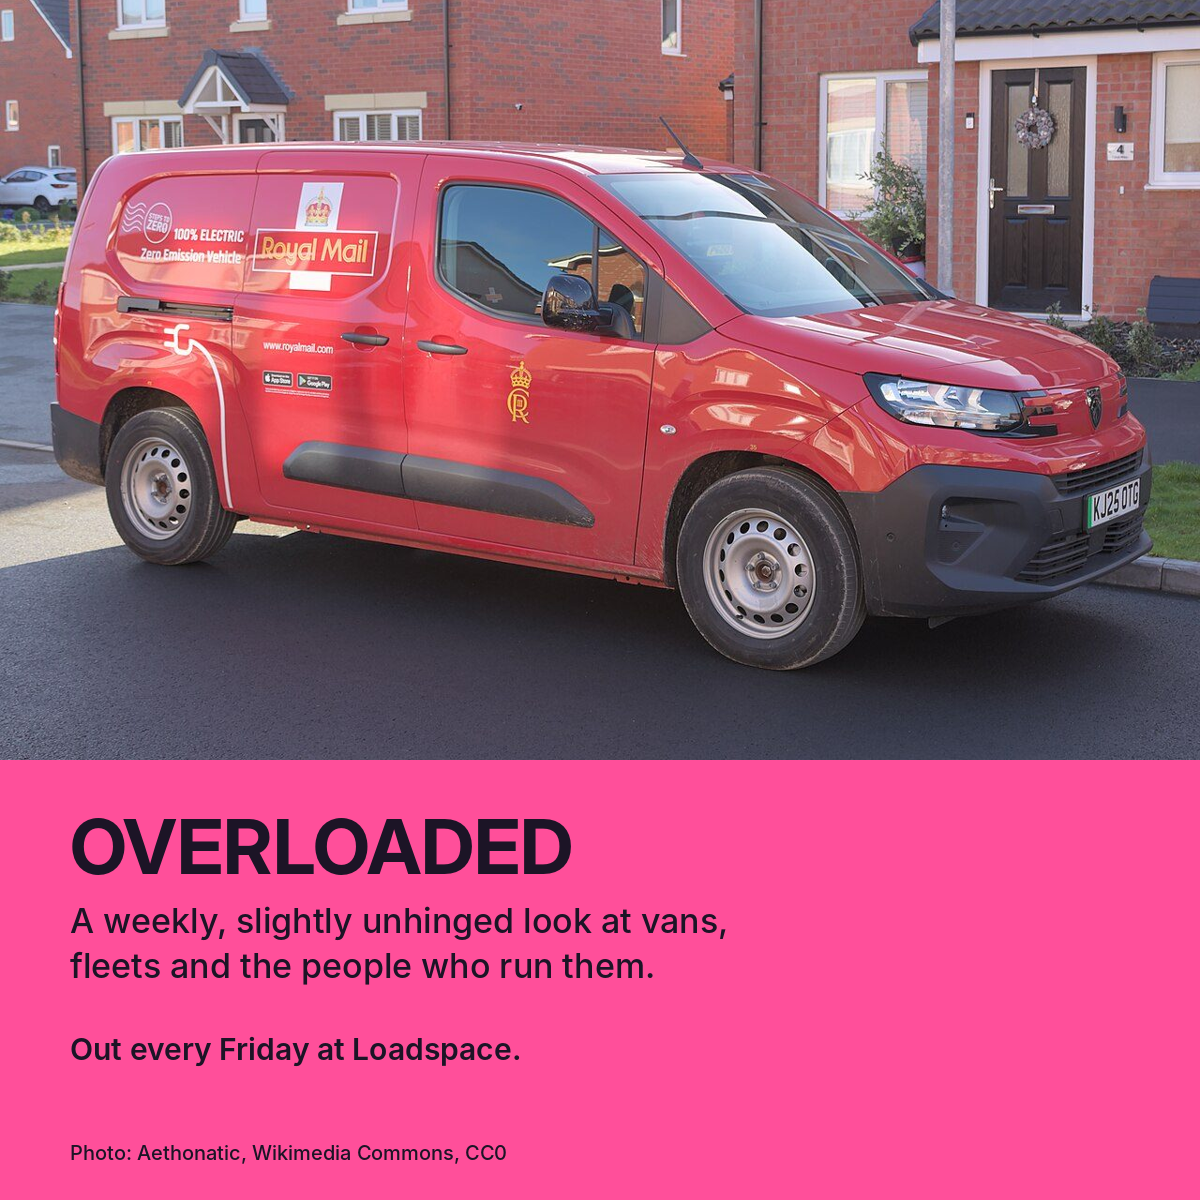
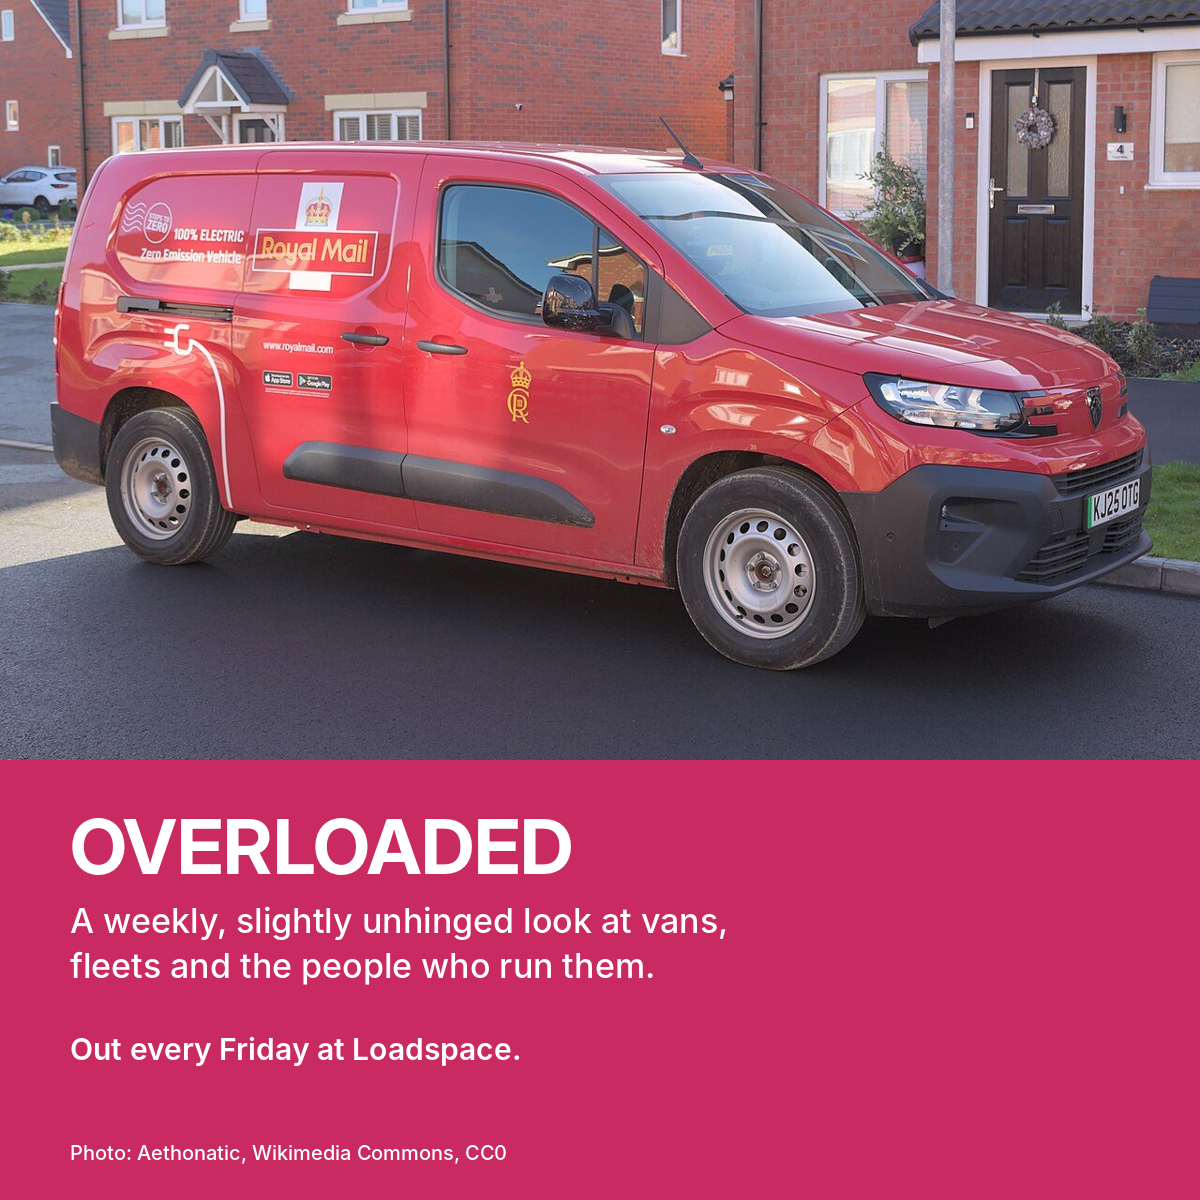
Tone the pink down to raspberry; white text on raspberry, lighter raspberry for text on dark plum
Claude-Session: https://claude.ai/code/session_01Y739fKfVCrU5qPWWHgayZV

diff --git a/src/styles/global.css b/src/styles/global.css
@@ -5,13 +5,14 @@
   --bg: #ffffff;
   --surface: #f7f4f8;
   --line: #e7e1ea;
-  --accent: #ff4f9a;
-  --accent-ink: #1c1426;
-  --accent-text: #c2185b;
-  --link: #c2185b;
+  --accent: #c92a62;
+  --accent-ink: #ffffff;
+  --accent-text: #a3214f;
+  --accent-on-dark: #f27aa5;
+  --link: #a3214f;
   --good: #1f7a4d;
-  --warn-bg: #fff0f6;
-  --warn-line: #f5b8d2;
+  --warn-bg: #fdf0f4;
+  --warn-line: #eab0c4;
   --hero: #1c1426;
   --hero-glow: #3a2350;
   --hero-text: #e6dced;
@@ -31,10 +32,11 @@
     --bg: #140f19;
     --surface: #1f1726;
     --line: #33283d;
-    --accent: #ff4f9a;
-    --accent-ink: #1c1426;
-    --accent-text: #ff8fc0;
-    --link: #ff8fc0;
+    --accent: #c92a62;
+    --accent-ink: #ffffff;
+    --accent-text: #f27aa5;
+    --accent-on-dark: #f27aa5;
+    --link: #f27aa5;
     --good: #5fd39a;
     --warn-bg: #2e1724;
     --warn-line: #7a2f52;
@@ -214,7 +216,7 @@ main:has(> .hero-split) { padding-top: 0; }
 
 /* Hero */
 .hero-split { margin: 0; padding: 4rem 0; background: radial-gradient(1200px 500px at 85% 20%, var(--hero-glow) 0%, transparent 60%), var(--hero); }
-.hero-split .eyebrow { color: var(--accent); }
+.hero-split .eyebrow { color: var(--accent-on-dark); }
 .hero-grid { display: grid; grid-template-columns: 1.05fr 1fr; gap: 3rem; align-items: center; }
 .hero-split h1 { max-width: 15ch; font-size: clamp(2.2rem, 4.6vw, 3.6rem); }
 .hero-split .hero-copy > p { font-size: 1.2rem; max-width: 44ch; }
@@ -295,7 +297,7 @@ main:has(> .hero-split) { padding-top: 0; }
 .cta-panel p { margin: 0 0 1rem; }
 .cta-panel .arrow { font-weight: 800; }
 .cta-panel.dark { background: var(--hero); color: #fff; }
-.cta-panel.dark .eyebrow { color: var(--accent); }
+.cta-panel.dark .eyebrow { color: var(--accent-on-dark); }
 .cta-panel.amber { background: var(--accent); color: var(--accent-ink); }
 .cta-panel.amber .eyebrow { color: var(--accent-ink); opacity: .7; }
 @media (max-width: 760px) { .cta-pair { grid-template-columns: 1fr; } }
@@ -323,20 +325,20 @@ main:has(> .hero-split) { padding-top: 0; }
 .page-head .lede { margin: 0; }
 
 @media (prefers-color-scheme: dark) {
-  .eyebrow { color: var(--accent); }
+  .eyebrow { color: var(--accent-on-dark); }
   .audience-card, .tool, .card { background: var(--surface); }
   .column-photo img, .hero-photo img { box-shadow: none; }
 }
 .column-head { background: var(--accent); border-bottom: 0; }
 .column-head h1, .column-head .lede { color: var(--accent-ink); }
-.column-head .column-badge { background: var(--ink); color: #fff; }
+.column-head .column-badge { background: var(--hero); color: #fff; }
 
 /* Reviews */
 main:has(> .review-hero) { padding-top: 0; }
 .review-hero { padding: 2.6rem 0 3.2rem; background: radial-gradient(1000px 480px at 90% 10%, var(--hero-glow) 0%, transparent 60%), var(--hero); color: var(--hero-text); }
 .review-hero h1 { color: #fff; font-size: clamp(2rem, 4vw, 3.1rem); max-width: 18ch; }
 .review-hero .crumbs, .review-hero .crumbs a { color: var(--hero-muted); }
-.review-hero .eyebrow { color: var(--accent); }
+.review-hero .eyebrow { color: var(--accent-on-dark); }
 .review-hero-grid { display: grid; grid-template-columns: 1fr 1.1fr; gap: 3rem; align-items: center; }
 .review-summary { font-size: 1.15rem; color: var(--hero-text); max-width: 46ch; margin: 0 0 1.6rem; }
 .review-medal { display: inline-flex; align-items: center; gap: 1rem; background: rgba(255,255,255,.06); border: 1px solid rgba(255,255,255,.12); border-radius: 16px; padding: .7rem 1.1rem .7rem .7rem; }
@@ -452,7 +454,7 @@ main:has(> .tool-hero) { padding-top: 0; }
 .tool-hero { padding: 2.4rem 0 2.6rem; background: radial-gradient(1000px 480px at 90% 10%, var(--hero-glow) 0%, transparent 60%), var(--hero); color: var(--hero-text); }
 .tool-hero h1 { color: #fff; font-size: clamp(2rem, 4vw, 3rem); max-width: 22ch; margin-bottom: .5rem; }
 .tool-hero .crumbs, .tool-hero .crumbs a { color: var(--hero-muted); }
-.tool-hero .eyebrow { color: var(--accent); margin: 0 0 .3rem; }
+.tool-hero .eyebrow { color: var(--accent-on-dark); margin: 0 0 .3rem; }
 .tool-hero .review-summary { margin: 0; max-width: 60ch; }
 .tool-hero-row { display: flex; gap: 1.2rem; align-items: flex-start; }
 .tool-hero-icon { flex: none; width: 64px; height: 64px; border-radius: 16px; background: var(--accent); display: grid; place-items: center; margin-top: .3rem; }
@@ -476,10 +478,10 @@ main:has(> .tool-hero) { padding-top: 0; }
 .tool-results .grid > div:first-child { border-top: 0; padding-top: 0; }
 .tool-results .muted { color: var(--hero-muted); }
 .tool-results .big { color: #fff; font-family: var(--display); font-weight: 800; font-size: 2rem; line-height: 1.1; }
-.tool-results .highlight .big { color: var(--accent); }
+.tool-results .highlight .big { color: var(--accent-on-dark); }
 .tool-results p, .tool-results strong { color: var(--hero-text); }
 .tool-results .result { background: none; border: 0; padding: 0; margin: 0; }
-.tool-results a { color: #ff8fc0; }
+.tool-results a { color: var(--accent-on-dark); }
 .tool-bars { display: grid; gap: .55rem; margin: 1rem 0 .2rem; }
 .tool-bar { display: grid; grid-template-columns: 4.5rem 1fr; align-items: center; gap: .6rem; font-size: .8rem; color: var(--hero-muted); }
 .tool-bar span.track { height: 12px; border-radius: 6px; background: rgba(255,255,255,.08); overflow: hidden; }

diff --git a/scripts/linkedin_images.py b/scripts/linkedin_images.py
@@ -18,7 +18,8 @@ FONTS = ROOT / 'scripts/fonts'
 REL = json.loads((ROOT / 'src/data/reliability.json').read_text())
 
 S = 1200
-NAVY, NAVY2, AMBER, WHITE, INK, MUTED, GRID, BG = '#1c1426', '#130d1a', '#ff4f9a', '#ffffff', '#1c1426', '#5b6573', '#e3e6eb', '#fcfcfb'
+NAVY, NAVY2, AMBER, WHITE, INK, MUTED, GRID, BG = '#1c1426', '#130d1a', '#c92a62', '#ffffff', '#1c1426', '#5b6573', '#e3e6eb', '#fcfcfb'
+LIGHT = '#f27aa5'  # raspberry, lightened for text on dark backgrounds
 BLUE, GOLD = '#3b6bc6', '#c98a00'  # validated chart pair (dataviz validator: all checks pass, labels required)
 
 
@@ -52,7 +53,7 @@ def frame(title, subtitle=None, dark=False):
     im = Image.new('RGB', (S, S), NAVY if dark else BG)
     d = ImageDraw.Draw(im)
     d.rectangle([0, 0, S, 14], fill=AMBER)
-    text(d, (70, 70), 'LOADSPACE', BOLD(30), AMBER if dark else NAVY)
+    text(d, (70, 70), 'LOADSPACE', BOLD(30), LIGHT if dark else NAVY)
     y = 130
     for line in wrap(d, title, BOLD(60), S - 140):
         text(d, (70, y), line, BOLD(60), WHITE if dark else INK)
@@ -144,11 +145,11 @@ def post4():
     im = Image.new('RGB', (S, S), AMBER)
     im.paste(photo, (0, 0))
     d = ImageDraw.Draw(im)
-    text(d, (70, 800), 'OVERLOADED', BOLD(76), NAVY)
-    text(d, (70, 900), 'A weekly, slightly unhinged look at vans,', MED(34), NAVY)
-    text(d, (70, 945), 'fleets and the people who run them.', MED(34), NAVY)
-    text(d, (70, 1030), 'Out every Friday at Loadspace.', SEMI(30), NAVY)
-    text(d, (70, S - 60), 'Photo: Aethonatic, Wikimedia Commons, CC0', MED(20), NAVY)
+    text(d, (70, 800), 'OVERLOADED', BOLD(76), WHITE)
+    text(d, (70, 900), 'A weekly, slightly unhinged look at vans,', MED(34), WHITE)
+    text(d, (70, 945), 'fleets and the people who run them.', MED(34), WHITE)
+    text(d, (70, 1030), 'Out every Friday at Loadspace.', SEMI(30), WHITE)
+    text(d, (70, S - 60), 'Photo: Aethonatic, Wikimedia Commons, CC0', MED(20), WHITE)
     return im
 
 
@@ -156,7 +157,7 @@ def post5():
     im, d, y = frame('The Zero Emission Van Grant, in two numbers', 'Taken off the price by the dealer. You don\'t apply.', dark=True)
     y += 40
     for amount, label in [('£2,500', 'up to, off some small electric vans (under 2,500kg)'), ('£5,000', 'up to, off some large electric vans (2,500 to 4,250kg)')]:
-        text(d, (70, y), amount, BOLD(150), AMBER)
+        text(d, (70, y), amount, BOLD(150), LIGHT)
         for line in wrap(d, label, SEMI(36), S - 140):
             y += 0
         y += 170
@@ -197,7 +198,7 @@ def post7():
     text(d, (70, y), 'Advertised', SEMI(34), '#e6dced')
     text(d, (70, y + 50), '£279', BOLD(140), WHITE)
     text(d, (620, y), 'What you really pay', SEMI(34), '#e6dced')
-    text(d, (620, y + 50), '£326', BOLD(140), AMBER)
+    text(d, (620, y + 50), '£326', BOLD(140), LIGHT)
     text(d, (620, y + 210), 'a month, spread over 36 months', MED(28), '#e6dced')
     y += 330
     for line in ['41 payments of £279 for 36 months, plus the fee:', '£11,739 in total, about 17% more than the advert.']:

diff --git a/scripts/news_images.py b/scripts/news_images.py
@@ -26,7 +26,8 @@ _extra = ROOT / 'src/data/photos.json'  # general photo library (scripts/add_pho
 if _extra.exists():
     PHOTOS.update(json.loads(_extra.read_text()))
 
-NAVY, NAVY2, AMBER, WHITE, MUTED = '#1c1426', '#130d1a', '#ff4f9a', '#ffffff', '#e6dced'
+NAVY, NAVY2, AMBER, WHITE, MUTED = '#1c1426', '#130d1a', '#c92a62', '#ffffff', '#e6dced'
+LIGHT = '#f27aa5'  # raspberry, lightened for text on dark backgrounds
 W, H = 1600, 900
 
 
@@ -68,25 +69,25 @@ def badge(im):
     f = font('InterDisplay-Bold.otf', 40)
     w = d.textlength('OVERLOADED', font=f)
     d.rounded_rectangle([48, 48, 48 + w + 56, 48 + 74], radius=37, fill=AMBER)
-    d.text((76, 60), 'OVERLOADED', font=f, fill=NAVY)
+    d.text((76, 60), 'OVERLOADED', font=f, fill=WHITE)
 
 
 def column_card(fm):
     """Branded image for the Overloaded column: pink, with the column name and headline."""
     im = Image.new('RGB', (W, H), AMBER)
     d = ImageDraw.Draw(im)
-    d.polygon([(W * 0.66, 0), (W, 0), (W, H), (W * 0.5, H)], fill='#f0418b')
+    d.polygon([(W * 0.66, 0), (W, 0), (W, H), (W * 0.5, H)], fill='#b8255a')
     sil = [(1180, 690), (1180, 520), (1420, 520), (1500, 590), (1560, 590), (1560, 690)]
-    d.polygon(sil, fill='#e2367f')
+    d.polygon(sil, fill='#a82152')
     for cx in (1250, 1490):
         d.ellipse([cx - 38, 652, cx + 38, 728], fill=NAVY)
     d.rectangle([0, 0, 18, H], fill=NAVY)
-    d.text((90, 70), 'OVERLOADED', font=font('InterDisplay-Bold.otf', 64), fill=NAVY)
-    d.text((92, 150), 'The weekly van column from Loadspace', font=font('Inter-Medium.otf', 30), fill=NAVY)
+    d.text((90, 70), 'OVERLOADED', font=font('InterDisplay-Bold.otf', 64), fill=WHITE)
+    d.text((92, 150), 'The weekly van column from Loadspace', font=font('Inter-Medium.otf', 30), fill=WHITE)
     hf = font('InterDisplay-Bold.otf', 82)
     y = 270
     for line in fit_lines(d, fm.get('title', ''), hf, 1080, 5):
-        d.text((90, y), line, font=hf, fill=NAVY); y += 98
+        d.text((90, y), line, font=hf, fill=WHITE); y += 98
     return im
 
 
@@ -106,13 +107,13 @@ def branded(fm):
     tf = font('Inter-SemiBold.otf', 30)
     tw = d.textlength(tag, font=tf)
     d.rounded_rectangle([90, 160, 90 + tw + 44, 214], radius=27, fill=AMBER)
-    d.text((112, 167), tag, font=tf, fill=NAVY)
+    d.text((112, 167), tag, font=tf, fill=WHITE)
 
     stat = fm.get('stat')
     if stat:
         size = 230 if len(stat) <= 6 else 170 if len(stat) <= 10 else 130
         sf = font('InterDisplay-Bold.otf', size)
-        d.text((86, 250), stat, font=sf, fill=AMBER)
+        d.text((86, 250), stat, font=sf, fill=LIGHT)
         y = 250 + size + 40
         lf = font('Inter-Medium.otf', 52)
         for line in fit_lines(d, fm.get('statLabel', ''), lf, 1000, 3):
